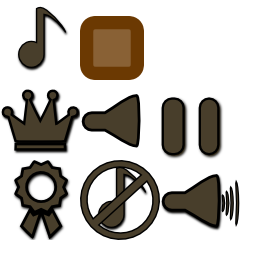
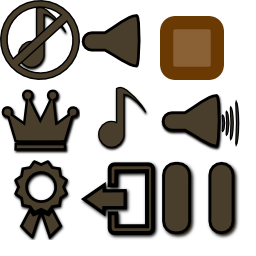
Ajout logout button.

diff --git a/puyopuyo-android/src/com/tacoid/pweek/actors/GooglePlayActor.java b/puyopuyo-android/src/com/tacoid/pweek/actors/GooglePlayActor.java
@@ -44,6 +44,21 @@ public class GooglePlayActor extends Group implements IGameLoginListener {
 			});
 		}
 	}
+	
+	public class LogoutButtonActor extends Button {
+		private LogoutButtonActor(TextureRegion regionUp, TextureRegion regionDown,
+				TextureRegion regionChecked) {
+			super(new TextureRegionDrawable(regionUp), new TextureRegionDrawable(regionDown), new TextureRegionDrawable(regionChecked));
+			
+			this.addListener(new com.badlogic.gdx.scenes.scene2d.utils.ClickListener() {
+				@Override
+				public void clicked(InputEvent event, float x, float y) {
+					SoundPlayer.getInstance().playSound(SoundType.TOUCH_MENU, 0.5f, true);
+					Pweek.getInstance().getGameService().logout();
+				}
+			});
+		}
+	}
 
 	private final IGameService gs;
 	private final LeaderboardType type;
@@ -93,6 +108,14 @@ public class GooglePlayActor extends Group implements IGameLoginListener {
 		if (type == LeaderboardType.ALL) {
 			l.setX(90);
 		}
+		
+		if (type == LeaderboardType.ALL) {
+			TextureRegion onRegionLogout = new TextureRegion(atlasButtons.findRegion("logout_button"));
+			LogoutButtonActor logoutActor = new LogoutButtonActor(onRegionLogout, onRegionLogout, onRegionLogout);
+			logoutActor.setX(180);
+			addActor(logoutActor);
+		}
+		
 		addActor(l);
 	}
 

diff --git a/puyopuyo-android/src/com/tacoid/pweek/screens/GameTimeAttackScreen.java b/puyopuyo-android/src/com/tacoid/pweek/screens/GameTimeAttackScreen.java
@@ -15,7 +15,7 @@ public class GameTimeAttackScreen extends GameScreenPortrait implements IGameTim
 		super.initGraphics();
 		TimeActor timeActor = new TimeActor(Pweek.getInstance().manager, this, 140, 800);
 		stage.getRoot().addActorBefore(gameOver, timeActor);
-		addButton(new GooglePlayActor(Pweek.getInstance().getGameService(), LeaderboardType.CHRONO, Pweek.getInstance().atlasBouttons, Pweek.getInstance().atlasGoogle), 90, VIRTUAL_HEIGHT-90);	}
+		addButton(new GooglePlayActor(Pweek.getInstance().getGameService(), LeaderboardType.CHRONO, Pweek.getInstance().atlasBouttons, Pweek.getInstance().atlasGoogle), 180, VIRTUAL_HEIGHT-90);	}
 
 	public static GameTimeAttackScreen getInstance() {
 		if (instance == null) {

diff --git a/puyopuyo-android/src/com/tacoid/pweek/screens/GameSoloScreen.java b/puyopuyo-android/src/com/tacoid/pweek/screens/GameSoloScreen.java
@@ -21,7 +21,7 @@ public class GameSoloScreen extends GameScreenPortrait {
 		super.initGraphics();
 		LevelActor levelActor = new LevelActor(Pweek.getInstance().manager, this, 140, 800);
 		stage.getRoot().addActorBefore(gameOver, levelActor);
-		addButton(new GooglePlayActor(Pweek.getInstance().getGameService(), LeaderboardType.SOLO, Pweek.getInstance().atlasBouttons, Pweek.getInstance().atlasGoogle), 90, VIRTUAL_HEIGHT-90);
+		addButton(new GooglePlayActor(Pweek.getInstance().getGameService(), LeaderboardType.SOLO, Pweek.getInstance().atlasBouttons, Pweek.getInstance().atlasGoogle), 180, VIRTUAL_HEIGHT-90);
 	}
 
 	@Override
